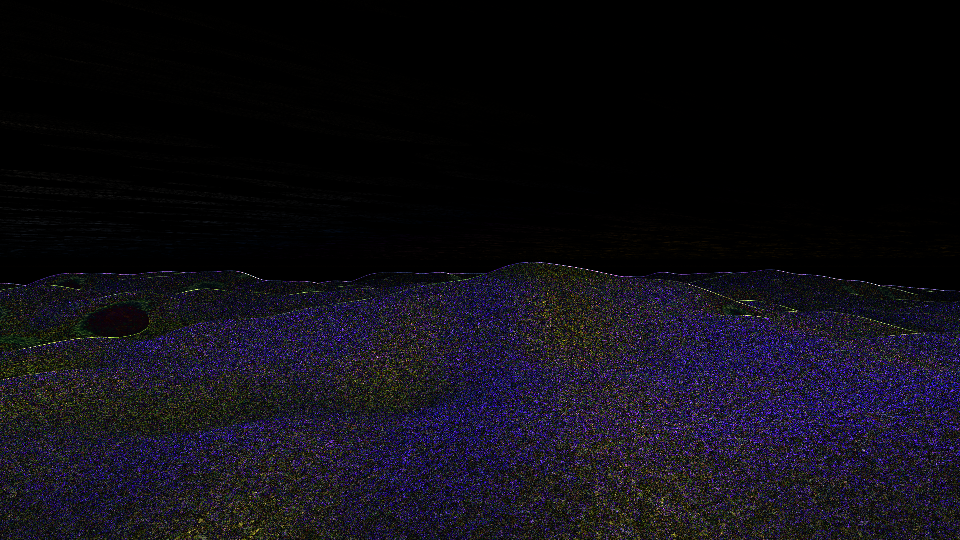
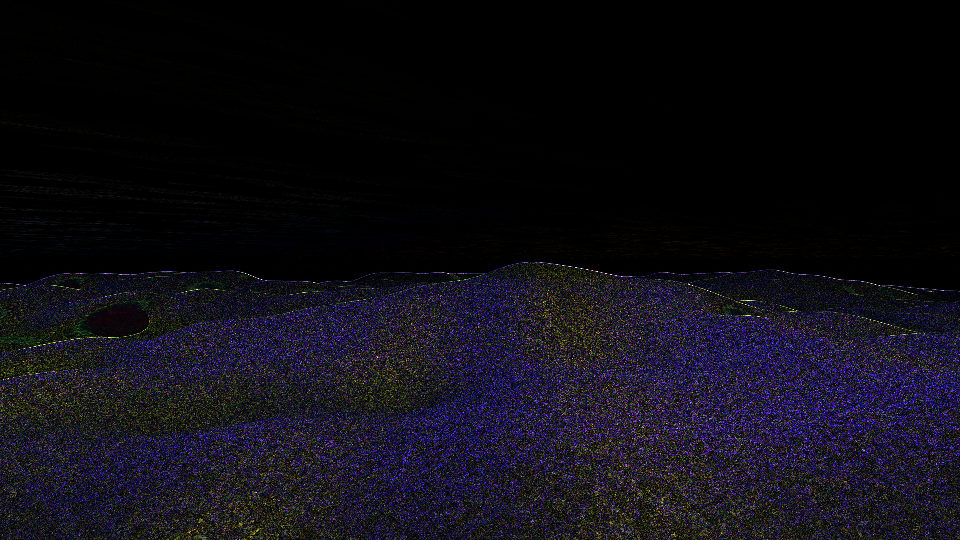
Twin: seed the rays from the pixel, not the thread
Rows are claimed atomically, so a per-thread RNG seed made the image depend on how the scheduler split the work: two
runs of the same command differed by ~0.001 RMSE, which is larger than the difference between any two settings the
document compares. Every pixel's seed now comes from its coordinates and the frame index, and the same command writes
a byte-identical PNG (checked with cmp).

With the noise gone the measurements were rerun and the table, the figures and the 960x540 number were regenerated;
the normal-weighted upsample that looked like a 1% win on the old noisy numbers is in fact a 0.00001 change, and the
comment in the twin says so.

diff --git a/tools/pathtrace_preview.cpp b/tools/pathtrace_preview.cpp
@@ -271,6 +271,15 @@ struct Scene {
     }
 };
 
+// A per-pixel seed, so the image does not depend on how the rows were scheduled across threads.
+uint32_t hash2(uint32_t x, uint32_t y) {
+    uint32_t h = x * 0x9e3779b9u ^ y * 0x85ebca6bu;
+    h ^= h >> 16;
+    h *= 0x7feb352du;
+    h ^= h >> 15;
+    return h ? h : 1u;
+}
+
 uint32_t rnd(uint32_t& s) {
     s ^= s << 13;
     s ^= s >> 17;
@@ -435,11 +444,15 @@ void renderRealtime(const Scene& scene, const glm::mat4& view, const glm::mat4& 
         std::vector<std::thread> pool;
         for (int th = 0; th < threads; ++th) {
             pool.emplace_back([&, th]() {
-                uint32_t seed = 0x9e3779b9u * uint32_t(th + 1) + uint32_t(frame) * 0x85ebca6bu;
+                (void)th;
                 for (;;) {
                     const int y = nextRow.fetch_add(1);
                     if (y >= GH) break;
                     for (int x = 0; x < GW; ++x) {
+                        // The seed comes from the pixel and the frame, never from the thread: rows are claimed
+                        // atomically, so a per-thread seed makes the image — and the RMSE CI gates on — depend on
+                        // how the scheduler happened to split the work.
+                        uint32_t seed = hash2(uint32_t(x), uint32_t(y)) + uint32_t(frame) * 0x85ebca6bu;
                         const int fx = std::min(W - 1, x * 2), fy = std::min(H - 1, y * 2);
                         const size_t fi = size_t(fy) * size_t(W) + size_t(fx);
                         const size_t gi = size_t(y) * size_t(GW) + size_t(x);
@@ -549,6 +562,8 @@ void renderRealtime(const Scene& scene, const glm::mat4& view, const glm::mat4& 
                     const int fx = std::min(W - 1, sx * 2), fy = std::min(H - 1, sy * 2);
                     const float d = b.depth[size_t(fy) * size_t(W) + size_t(fx)];
                     if (d <= 0.0f) continue;
+                    // Depth-guided only. A normal term was tried here and measured: RMSE 0.03803 against 0.03802 and
+                    // the same worst pixel, i.e. no effect on this scene, so the cheaper weight stands.
                     const float wgt = 1.0f / (1e-3f + std::fabs(d - b.depth[i]) * 2.0f);
                     acc += b.gi[size_t(sy) * size_t(GW) + size_t(sx)] * wgt;
                     wsum += wgt;
@@ -672,11 +687,12 @@ int main(int argc, char** argv) {
             const int threads2 = std::max(1u, std::thread::hardware_concurrency());
             for (int th = 0; th < threads2; ++th) {
                 refPool.emplace_back([&, th]() {
-                    uint32_t seed = 0x9e3779b9u * uint32_t(th + 1);
+                    (void)th;
                     for (;;) {
                         const int y = row.fetch_add(1);
                         if (y >= H) break;
                         for (int x = 0; x < W; ++x) {
+                            uint32_t seed = hash2(uint32_t(x), uint32_t(y));
                             glm::vec3 sum(0.0f);
                             for (int s = 0; s < refSpp; ++s) {
                                 const float jx = (float(x) + frand(seed)) / float(W) * 2.0f - 1.0f;
@@ -706,7 +722,7 @@ int main(int argc, char** argv) {
                 worst = std::max(worst, e);
             }
             const double rmse = std::sqrt(sum / double(display.size()));
-            std::printf("error vs %d spp reference: RMSE %.4f, worst %.3f (display units, 0..1)\n", refSpp, rmse,
+            std::printf("error vs %d spp reference: RMSE %.5f, worst %.4f (display units, 0..1)\n", refSpp, rmse,
                         worst);
             // CI has no GPU, so this is the only number that says the estimator still matches the tracer. A budget
             // makes the run a test rather than a printout: the measured value is ~0.038, and 0.05 is the point past
@@ -714,10 +730,10 @@ int main(int argc, char** argv) {
             if (const char* budget = std::getenv("UKIYO_RT_MAX_RMSE")) {
                 const double limit = std::atof(budget);
                 if (rmse > limit) {
-                    std::printf("error: RMSE %.4f exceeds the budget %.4f (UKIYO_RT_MAX_RMSE)\n", rmse, limit);
+                    std::printf("error: RMSE %.5f exceeds the budget %.5f (UKIYO_RT_MAX_RMSE)\n", rmse, limit);
                     return 1;
                 }
-                std::printf("ok: RMSE %.4f is within the budget %.4f\n", rmse, limit);
+                std::printf("ok: RMSE %.5f is within the budget %.5f\n", rmse, limit);
             }
             // A difference image, amplified: where the estimator is wrong, and by how much.
             std::vector<glm::vec3> diff(display.size());
@@ -741,11 +757,12 @@ int main(int argc, char** argv) {
     std::vector<std::thread> pool;
     for (int th = 0; th < threads; ++th) {
         pool.emplace_back([&, th]() {
-            uint32_t seed = 0x9e3779b9u * uint32_t(th + 1);
+            (void)th;
             for (;;) {
                 const int y = nextRow.fetch_add(1);
                 if (y >= H) break;
                 for (int x = 0; x < W; ++x) {
+                    uint32_t seed = hash2(uint32_t(x), uint32_t(y));
                     glm::vec3 sum(0.0f);
                     for (int s = 0; s < spp; ++s) {
                         const float jx = (float(x) + frand(seed)) / float(W) * 2.0f - 1.0f;

diff --git a/docs/PATHTRACE.md b/docs/PATHTRACE.md
@@ -113,10 +113,14 @@ the previous frame's composited image) keeps the estimator from feeding its own 
 
 | Resolution | Rays per half-res pixel | Frames accumulated | Reference | RMSE | Worst pixel |
 | --- | --- | --- | --- | --- | --- |
-| 480 × 270 | 4 | 8 | 32 spp | 0.0381 | 0.333 |
-| 480 × 270 | 8 | 8 | 32 spp | 0.0380 | 0.343 |
-| 480 × 270 | 8 | 8 | 64 spp | 0.0376 | 0.310 |
-| 960 × 540 | 8 | 16 | 64 spp | **0.0335** | 0.328 |
+| 480 × 270 | 4 | 8 | 32 spp | 0.03802 | 0.3116 |
+| 480 × 270 | 8 | 8 | 32 spp | 0.03801 | 0.3127 |
+| 480 × 270 | 8 | 8 | 64 spp | 0.03757 | 0.3140 |
+| 960 × 540 | 8 | 16 | 64 spp | **0.03346** | 0.3389 |
+
+These numbers are reproducible to the last digit: the twin seeds every pixel's rays from the pixel and frame index
+rather than the thread, so a rerun writes a byte-identical PNG. (It did not, until that was fixed — the RMSE moved by
+a thousandth between runs, which is larger than any of the differences being compared here.)
 
 The error barely moves with the ray count because it is not the estimator's noise: at these settings it is the
 difference between the estimator's model (a raster frame plus one bounce) and the tracer's (every ray a path), which
